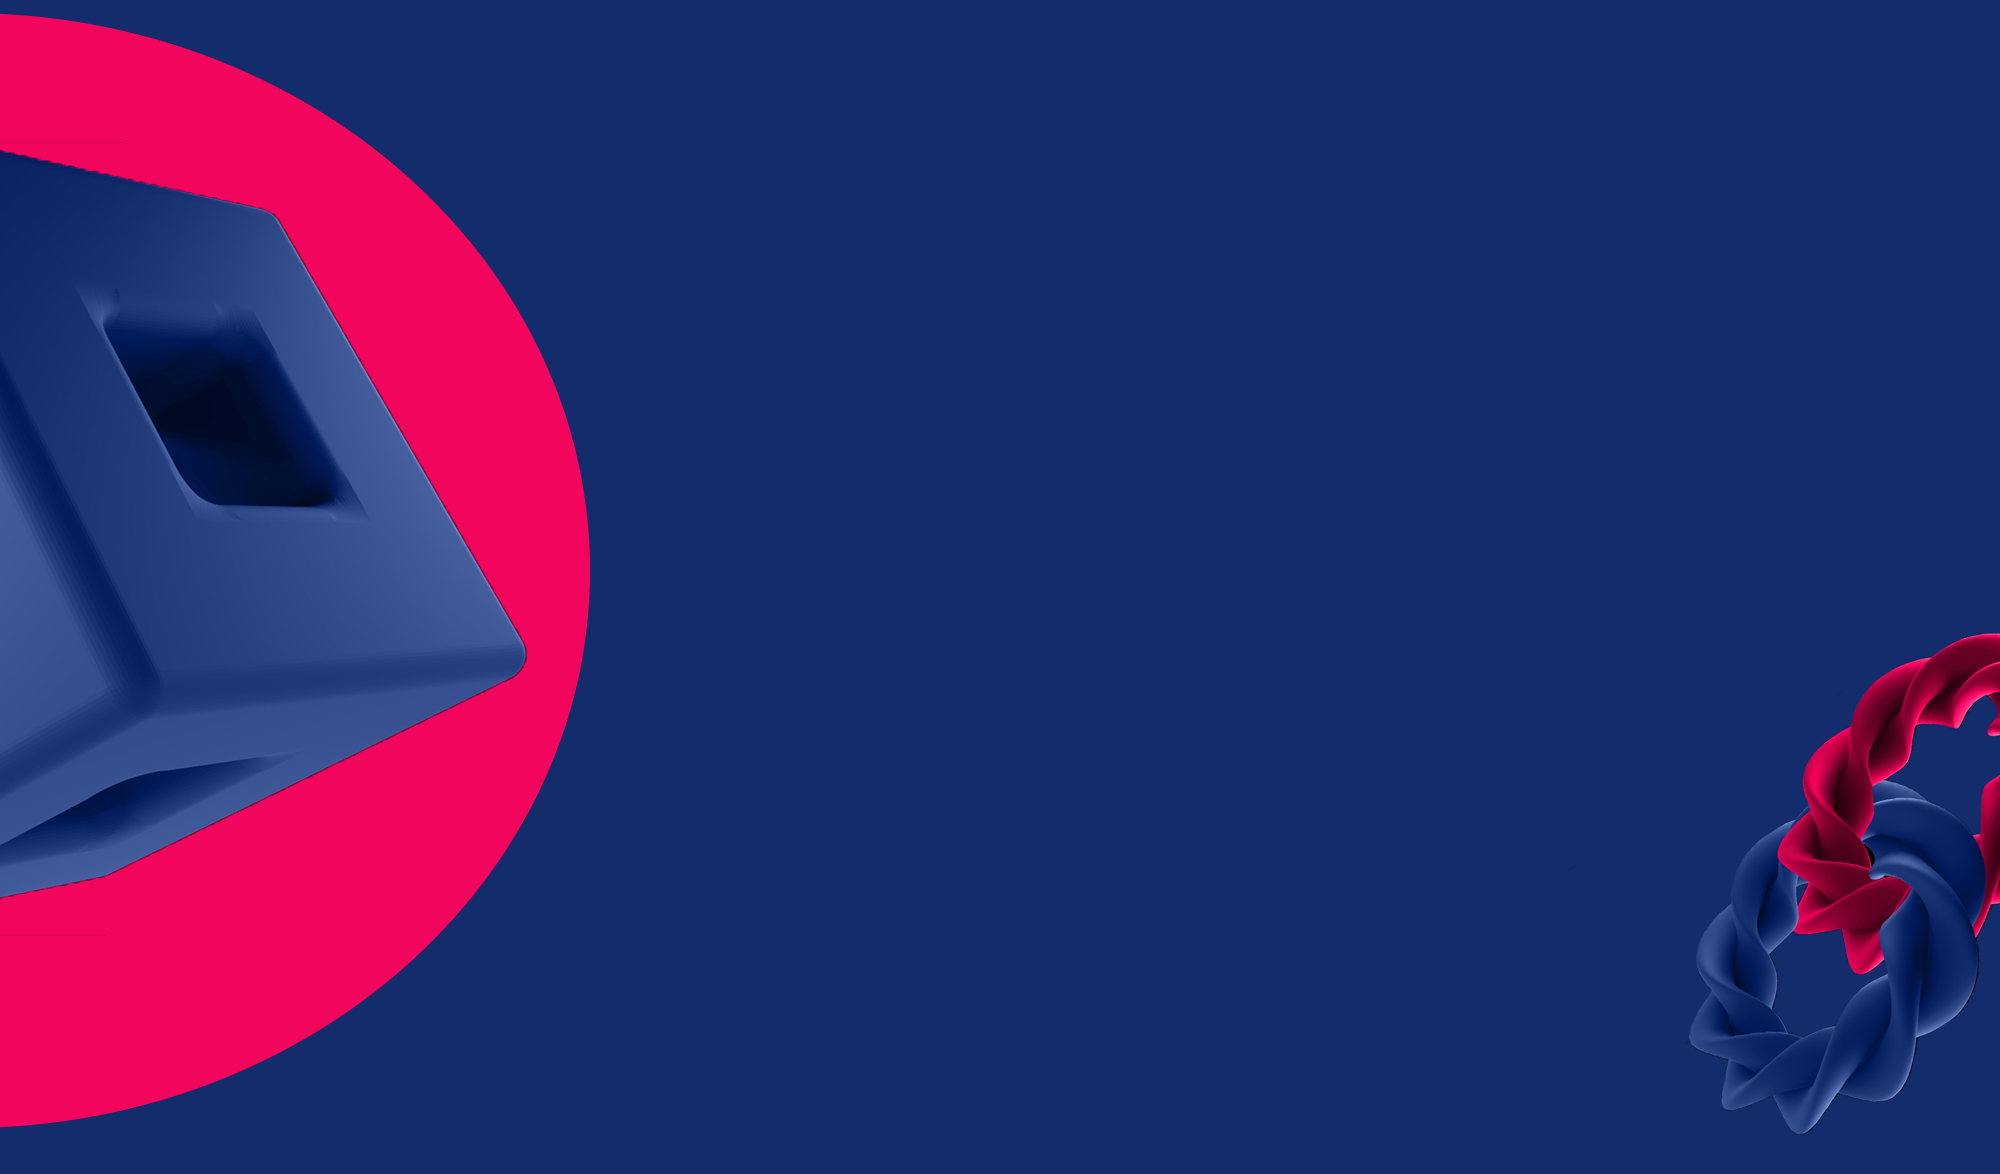
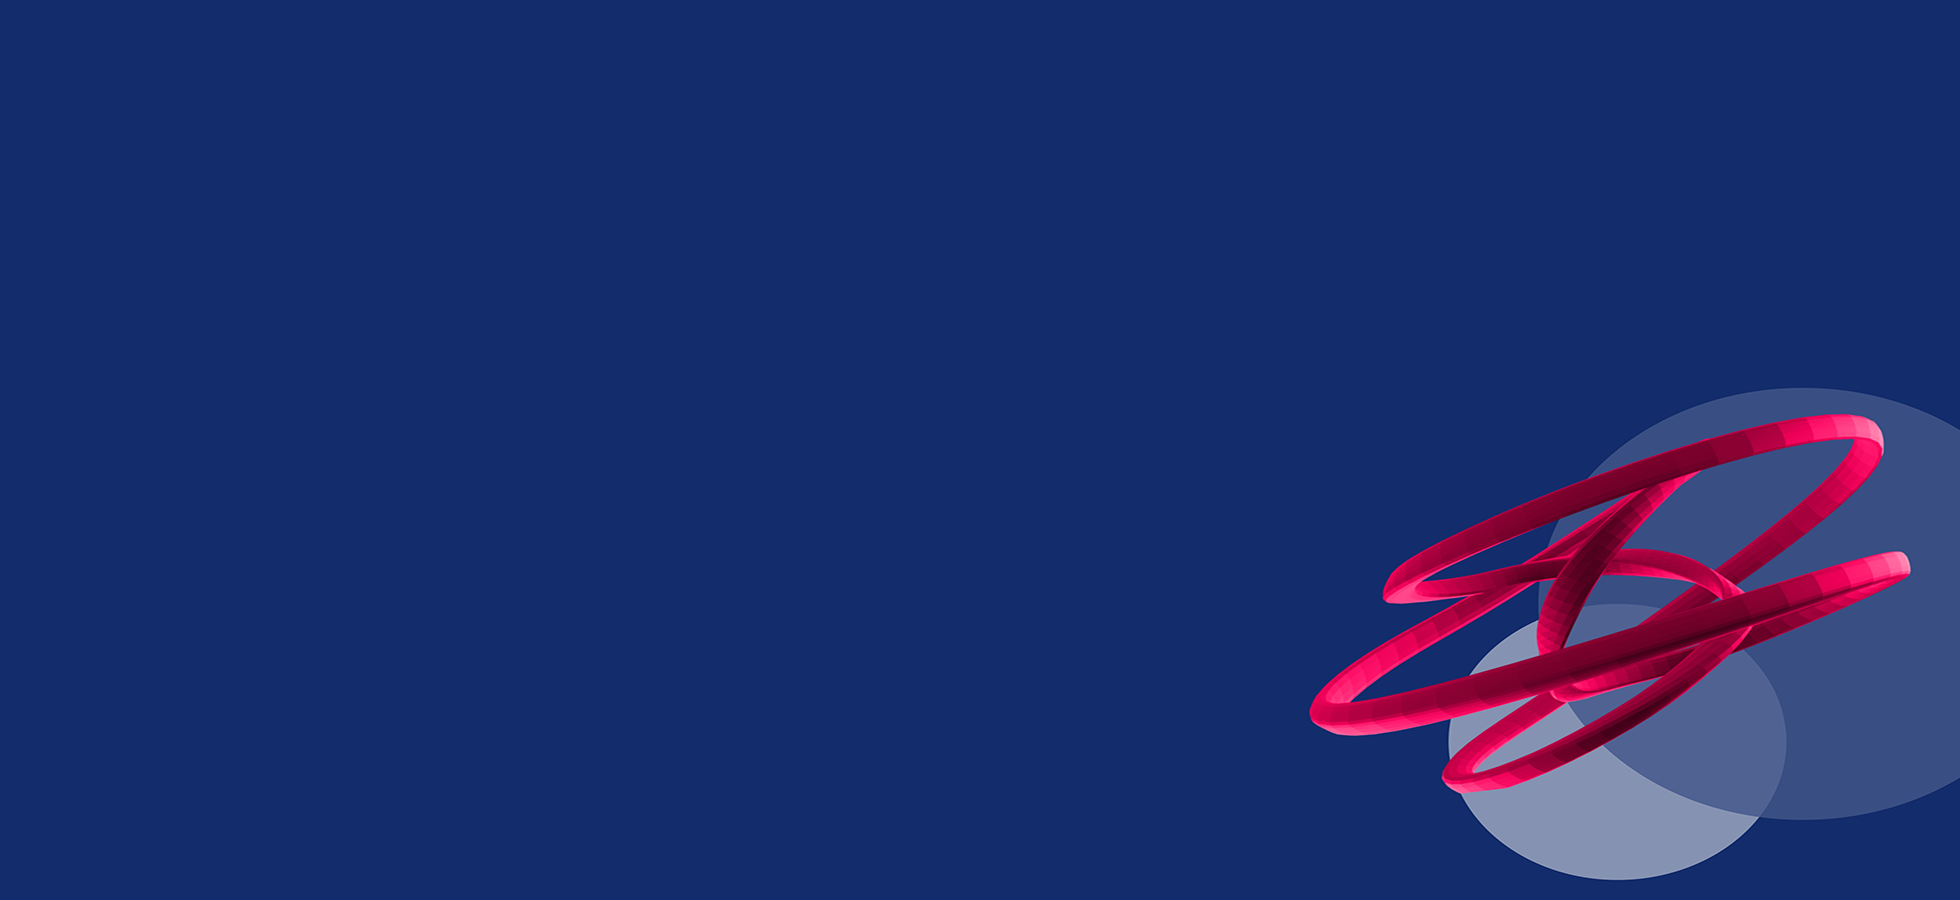
contact section added form and footer

Changed region(s): [[0.0, 0.0, 0.3112, 0.9644], [0.6536, 0.4044, 1.0, 0.9956]]

diff --git a/src/components/contact.css b/src/components/contact.css
@@ -1,0 +1,130 @@
+.contact_container{
+    justify-content: center;
+    align-items: center;
+    display: flex;
+    flex-direction: column;
+}
+.contact_box{
+    position: relative;
+    width: 500px;
+    height: 700px;
+    display: flex;
+    justify-content: center;
+    align-items: center;
+    background: repeating-conic-gradient(from var(--a), #F2055C 0%, #F2055C 5%, transparent 5%, transparent 35%, #F2055C 50%);
+    animation: animatecontact 4s linear infinite;
+    border-radius: 20px;
+}
+.contact_box::before{
+    content: '';
+    position: absolute;
+    width: 100%;
+    height: 100%;
+    background: repeating-conic-gradient(from var(--a), rgb(110, 204, 255) 0%, rgb(110, 204, 255) 5%, transparent 5%, transparent 35%, rgb(110, 204, 255) 50%);
+    animation: animatecontact 4s linear infinite;
+    border-radius: 20px;
+    animation-delay: -1s;
+}
+@property --a
+{
+    syntax: '<angle>';
+    inherits: false;
+    initial-value: 0deg
+}
+@keyframes animatecontact{
+    0%{
+        --a: 0deg;
+    }
+    100%{
+        --a: 360deg;
+    }
+}
+.contact_box::after{
+    content: '';
+    position: absolute;
+    inset: 8px;
+    background: #929191;
+    border-radius: 15px;
+    border: 4px solid rgb(245, 245, 245);
+}
+
+.contact_box form{
+    position: relative;
+    display: flex;
+    justify-content: center;
+    align-items: center;
+    flex-direction: column;
+    gap: 20px;
+    padding: 0  40px;
+    z-index: 1000;
+}
+.contact_box form h2{
+    color: #ffffff;
+    font-weight: 600;
+    font-size: 35px;
+}
+.contact_box form input{
+    position: relative;
+    width: 85%;
+    background: rgba(255, 255, 255, 0.749);
+    padding: 15px 75px 17px 20px;
+    border: none;
+    outline: none;
+    border-radius: 5px;
+    font-size: 1em;
+    letter-spacing: 0.05em;
+}
+.contact_box form textarea{
+    position: relative;
+    width: 85%;
+    background: rgba(255, 255, 255, 0.749);
+    padding: 15px 75px 17px 20px;
+    height: 160px;
+    border: none;
+    outline: none;
+    border-radius: 5px;
+    font-size: 1em;
+    letter-spacing: 0.05em;
+}
+.contact_box form input::placeholder{
+    color: rgba(78, 77, 77, 0.529);
+}
+.contact_box form input[type='submit']{
+    font-weight: 600;
+    background: #1E1E1E;
+    color: rgb(255, 255, 255);
+    cursor: pointer;
+    transition: 0.5s;
+    width: 160px;
+}
+.contact_box form input[type='submit']:hover{
+    background: #F2055C;
+}
+.footer_container{
+    width: 100%;
+    display: flex;
+    justify-content: space-around;
+}
+.footer_btn{
+    margin-top: 50px;
+}
+.footer_btn input{
+    width: 200px;
+    height: 50px;
+    font-size: 17px;
+    border-radius: 10px;
+    margin: 10px;
+    border: solid 1px transparent;
+}
+.icons_box{
+    margin: 20px;
+}
+.fonticonf{
+    font-size: 2em;
+    color: white;
+}
+.fonticoni{
+    font-size: 2.1em;
+    color: white;
+    margin-left: 13px;
+}

diff --git a/src/components/Contact.jsx b/src/components/Contact.jsx
@@ -1,9 +1,49 @@
-import React from 'react'
+import React from "react";
+import "./contact.css";
+import { FontAwesomeIcon } from "@fortawesome/react-fontawesome";
+import { faFacebook } from "@fortawesome/free-brands-svg-icons";
+import { faInstagram } from "@fortawesome/free-brands-svg-icons";
 
 const Contact = () => {
   return (
-    <div>Contact</div>
-  )
-}
+    <div className="contact_container">
+      <div className="contact_box">
+        <form>
+          <h2>Haz contacto</h2>
+          <input type="text" placeholder="Nombre completo" />
+          <input type="text" placeholder="[Cod de área] + Número" />
+          <input type="text" placeholder="Seleccione un servicio" />
+          <textarea type="text" placeholder="Mensaje"></textarea>
+          <input type="submit" value="Enviar señales" />
+        </form>
+      </div>
+      <div className="footer_btn">
+        <input type="submit" value="Politica de privacidad" />
+        <input type="submit" value="Terminos y condiciones" />
+      </div>       
+      <p style={{color:"white"}}>© Magna Dimenseon. Todos los derechos reservados.</p>
+      <div className="footer_container">
+        <img className="logo_magna" src="../images/logo.png" alt="logo" />
+ 
+        <div className="icons_box">
+          <a
+            href="https://www.facebook.com/magna.dimenseon"
+            target="blank"
+            alt="facebook-icon"
+          >
+            <FontAwesomeIcon className="fonticonf" icon={faFacebook} />
+          </a>
+          <a
+            href="https://www.instagram.com/magna.dimenseon/"
+            target="blank"
+            alt="facebook-icon"
+          >
+            <FontAwesomeIcon className="fonticoni" icon={faInstagram} />
+          </a>
+        </div>
+      </div>
+    </div>
+  );
+};
 
-export default Contact
+export default Contact;

diff --git a/public/index.html b/public/index.html
@@ -10,34 +10,15 @@
       content="Web site created using create-react-app"
     />
     <link rel="apple-touch-icon" href="%PUBLIC_URL%/logo192.png" />
-    <!--
-      manifest.json provides metadata used when your web app is installed on a
-      user's mobile device or desktop. See https://developers.google.com/web/fundamentals/web-app-manifest/
-    -->
     <link rel="manifest" href="%PUBLIC_URL%/manifest.json" />
-    <!--
-      Notice the use of %PUBLIC_URL% in the tags above.
-      It will be replaced with the URL of the `public` folder during the build.
-      Only files inside the `public` folder can be referenced from the HTML.
-
-      Unlike "/favicon.ico" or "favicon.ico", "%PUBLIC_URL%/favicon.ico" will
-      work correctly both with client-side routing and a non-root public URL.
-      Learn how to configure a non-root public URL by running `npm run build`.
-    -->
-    <title>React App</title>
+    <link rel="stylesheet" href="https://unpkg.com/aos@next/dist/aos.css" />
+    <title>Magna Dimenseon</title>
   </head>
   <body>
-    <noscript>You need to enable JavaScript to run this app.</noscript>
     <div id="root"></div>
-    <!--
-      This HTML file is a template.
-      If you open it directly in the browser, you will see an empty page.
-
-      You can add webfonts, meta tags, or analytics to this file.
-      The build step will place the bundled scripts into the <body> tag.
-
-      To begin the development, run `npm start` or `yarn start`.
-      To create a production bundle, use `npm run build` or `yarn build`.
-    -->
+    <script src="https://unpkg.com/aos@next/dist/aos.js"></script>
+    <script>
+      AOS.init();
+    </script>
   </body>
 </html>

diff --git a/src/components/Cards.jsx b/src/components/Cards.jsx
@@ -8,7 +8,8 @@ const Cards = () => {
         <h2 className="cards_tittle">NUESTROS MUNDOS</h2>
         </div>
         <div className="container2">
-      <div className="box2">
+
+      <div className="box2" data-aos="fade-right">
         <span></span>
         <div className="content">
           <h2>Data analytics & DCU</h2>
@@ -19,7 +20,7 @@ const Cards = () => {
         </div>
       </div>
 
-      <div className="box2">
+      <div className="box2" data-aos="fade-down">
         <span></span>
         <div className="content">
           <h2>UX UI & CX</h2>
@@ -29,7 +30,7 @@ const Cards = () => {
         </div>
       </div>
 
-      <div className="box2">
+      <div className="box2" data-aos="fade-left">
         <span></span>
         <div className="content">
           <h2>Web 3.0</h2>
@@ -39,7 +40,7 @@ const Cards = () => {
         </div>
       </div>
 
-      <div className="box2">
+      <div className="box2" data-aos="fade-right">
         <span></span>
         <div className="content">
           <h2>AI</h2>
@@ -49,7 +50,7 @@ const Cards = () => {
         </div>
       </div>
 
-      <div className="box2">
+      <div className="box2" data-aos="fade-up">
         <span></span>
         <div className="content">
           <h2>Blockchain</h2>
@@ -59,7 +60,7 @@ const Cards = () => {
         </div>
       </div>
 
-      <div className="box2">
+      <div className="box2" data-aos="fade-left">
         <span></span>
         <div className="content">
           <h2>Apps iOS & Androidn</h2>

diff --git a/src/components/home.css b/src/components/home.css
@@ -45,7 +45,6 @@
     }
     70%,90%{
         width: 100%;
-        /* filter: blur(15px); */
     }
 }
 .home_btn_container{
@@ -54,19 +53,20 @@
     justify-content: center;
 }
 .home_btn{
-    background: #fbfbfbb8;
+    background: #8f7be92f;
     position: relative;
     display: inline-block;
     padding: 25px 30px;
     margin: 40px 0;
+    border-radius: 10px;
     color: #F2055C ;
-    font-size: 18px;
+    font-size: 15px;
     text-decoration: none;
     text-transform: uppercase;
     overflow: hidden;
     transition: 0.5s;
     letter-spacing: 4px;
-    -webkit-box-reflect: below 1px linear-gradient(transparent,rgba(0, 0, 0, 0.437));
+    -webkit-box-reflect: below 1px linear-gradient(transparent,rgba(0, 0, 0, 0.133));
 }
 .home_btn:hover{
     background: #F2055C ;

diff --git a/src/components/about.css b/src/components/about.css
@@ -1,20 +1,10 @@
 .about_container{
     height: 100vh;
-    background-image: url(../../public/images/section2.png); 
+    background-image: url(../../public/images/section6.png); 
     background-size: cover;
     background-color: #132C6B;
     text-align: center;
     align-items: center;
     justify-content: center;
     display: flex;
-}
-.about_text{
-    color: #F2055C;
-    font-size: 45px;
-}
-.about_box{
-    background-color: #132C6B;
-    width: 700px;
-    height: 700px;
-    box-shadow: 0 0 10px black;
 }

diff --git a/src/components/Home.jsx b/src/components/Home.jsx
@@ -3,15 +3,11 @@ import './home.css'
 
 const Home = () => {
   return (
-    <div className='home-bg'>
+    <div className='home-bg'> 
         <div className='bg_text_btn'>
-           
             <div className='home_text_container'>
                 <h1 className='dimenseon_text' data-text='DIMENSEON'>DIMENSEON</h1>
             </div>
-
-       
-
          { /* <div className='neon_wrapper'>
             <span className='wrapper_text'>DIMENSEON</span>
             <span className='wrapper_gradient'></span>

diff --git a/src/App.css b/src/App.css
@@ -1,7 +1,7 @@
 .App {
   text-align: center;
 
-  background-image: url(../public/images/space.png); 
-  background-attachment: fixed;
-  background-size: cover;
+  background-image: url(../public/images/section5.png); 
+
+
 }
